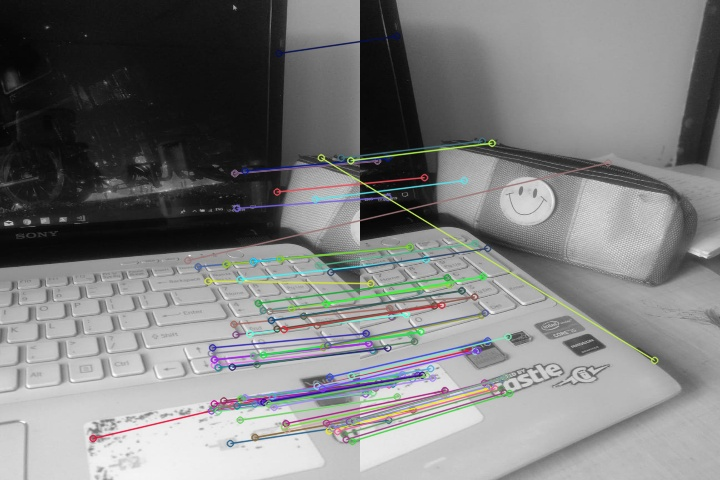
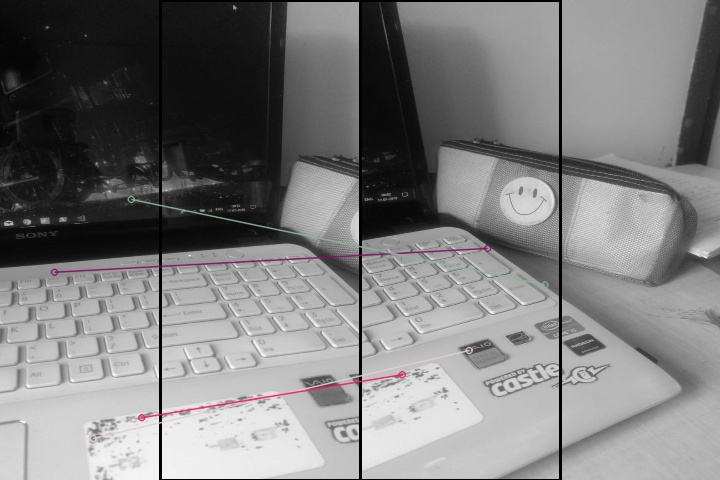
Preparing for ROI

diff --git a/src_nopre.py b/src_nopre.py
@@ -8,6 +8,23 @@ Name_Final = 'OutputImages/Op4WithoutPre.jpeg'
 w=360
 h=480
 
+
+# Region of Interest
+
+## Left Image
+x_l     = 160
+xw_l    = 360
+
+y_l     =  0
+yw_l    =  480
+
+## Right Image
+x_r     = 0
+xw_r    = 200
+
+y_r     = 0
+yw_r    = 480
+
 min_limit=0.75
 
 def inp(A,B):
@@ -22,7 +39,7 @@ def Resize_BW(img,w,h):
 
 def SIFT(img):
     sift=cv2.xfeatures2d.SIFT_create()
-    kp,desc = sift.detectAndCompute(img,None)
+    kp,desc = sift.detectAndCompute(img[0:480,0:200],None)
     img_keyp =cv2.drawKeypoints(img,kp,None, flags=cv2.DRAW_MATCHES_FLAGS_DRAW_RICH_KEYPOINTS)
     return kp,desc,img_keyp
 
@@ -34,7 +51,8 @@ def Matcher(ima,imb,ima_kp,imb_kp,ima_desc,imb_desc,min_limit):
     for m,n in matches:
         if m.distance < min_limit*n.distance:
             good.append([m])
-
+    cv2.rectangle(ima,(x_l,y_l),(xw_l,yw_l),(0,255,0),2)
+    cv2.rectangle(imb,(x_r,y_r),(xw_r,yw_r),(0,255,0),2)
     match_img = cv2.drawMatchesKnn(ima,ima_kp,imb,imb_kp,good,None,flags=2)
 
     return matches,good,match_img

diff --git a/roi_test.py b/roi_test.py
@@ -1,0 +1,32 @@
+import cv2
+import numpy as np
+
+img1='InputImages/7.jpeg'
+img2='InputImages/8.jpeg'
+w=360
+h=480
+
+
+def inp(A,B):
+    img1=cv2.imread(A)
+    img2=cv2.imread(B)
+    return img1,img2
+
+def Resize_BW(img,w,h):
+    img=cv2.cvtColor(img, cv2.COLOR_BGR2GRAY)
+    img=cv2.resize(img, (w,h))
+    return img
+
+
+imgA,imgB = inp(img1,img2)
+
+A = Resize_BW(imgA,w,h)
+B = Resize_BW(imgB,w,h)
+
+cv2.rectangle(A,(160,0),(360,480),(0,255,0),3)
+
+cv2.imshow('Final',A[0:480,160:360])
+
+k = cv2.waitKey(0)
+if k == 27:         # wait for ESC key to exit
+    cv2.destroyAllWindows()
